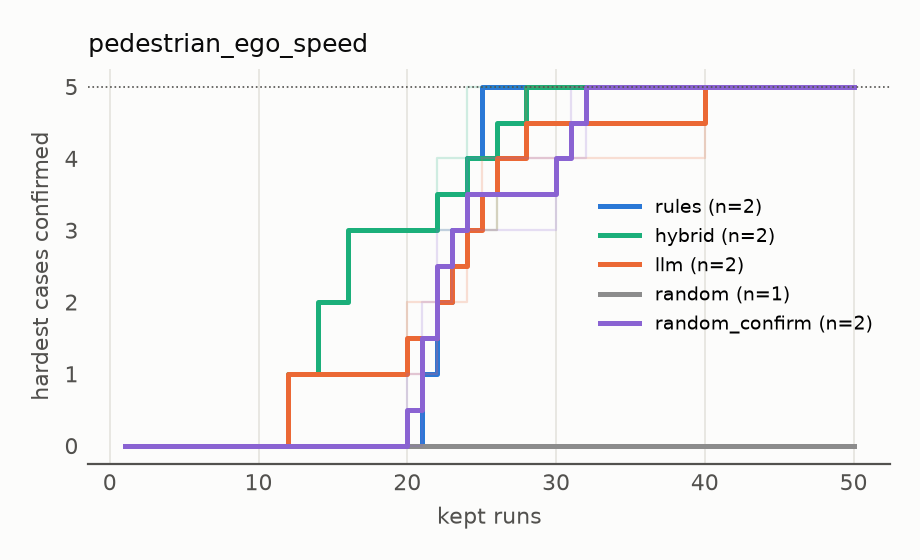
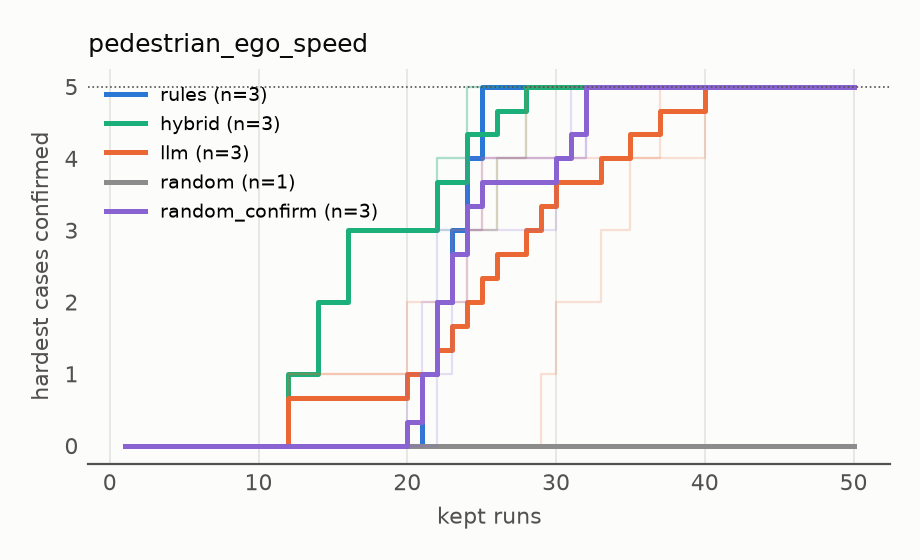
Pedestrian x ego speed: three replicates of every method

diff --git a/METHODS.md b/METHODS.md
@@ -32,10 +32,10 @@ k most challenging scenes (1 = a crash), whether or not it was confirmed.
 | pedestrian_crossing | random | 1 | 49 | 0 | 49 | 49 | 0 of 5 | 0.673 | 0 | 0.0 |
 | pedestrian_crossing | optuna | 1 | 49 | 0 | 49 | 49 | 1 of 5 | 0.699 | 3 | 0.0 |
 | pedestrian_ego_speed | rules | 3 | 30, 30, 30 | 3 | 25, 25, 25 | 25 | 5, 5, 5 of 5 | 1.0, 1.0, 1.0 | 17, 18, 18 | 0.0, 0.0, 0.0 |
-| pedestrian_ego_speed | hybrid | 2 | 30, 30 | 2 | 24, 28 | 26.0 | 5, 5 of 5 | 1.0, 1.0 | 18, 19 | 46.0, 45.6 |
-| pedestrian_ego_speed | llm | 2 | 30, 49 | 2 | 28, 40 | 34.0 | 5, 5 of 5 | 1.0, 1.0 | 18, 30 | 52.5, 88.1 |
+| pedestrian_ego_speed | hybrid | 3 | 30, 30, 30 | 3 | 24, 28, 24 | 24 | 5, 5, 5 of 5 | 1.0, 1.0, 1.0 | 18, 19, 19 | 46.0, 45.6, 42.3 |
+| pedestrian_ego_speed | llm | 3 | 30, 49, 39 | 3 | 28, 40, 37 | 37 | 5, 5, 5 of 5 | 1.0, 1.0, 1.0 | 18, 30, 25 | 52.5, 88.1, 78.2 |
 | pedestrian_ego_speed | random | 1 | 48 | 0 | 50 | 50 | 0 of 5 | 1.0 | 31 | 0.0 |
-| pedestrian_ego_speed | random_confirm | 2 | 39, 39 | 2 | 31, 32 | 31.5 | 5, 5 of 5 | 1.0, 1.0 | 28, 29 | 0.0, 0.0 |
+| pedestrian_ego_speed | random_confirm | 3 | 39, 39, 40 | 3 | 31, 32, 32 | 32 | 5, 5, 5 of 5 | 1.0, 1.0, 1.0 | 28, 29, 31 | 0.0, 0.0, 0.0 |
 
 Left out: arms that stopped believing their goal met under the broad
 failure definition used before 8 Oct 2026 (any front, side or off-road

diff --git a/BACK.md b/BACK.md
@@ -47,8 +47,9 @@ by day is in `LOG.md`. Live results: `research/simgate serve` (Results tab),
    involving the pedestrian: it turns too sharply or veers off at RIGHT
    commands. Worth checking its gains, or the uncommitted configuration.py.
 6. **Which search method is fastest depends on the space** (replicates so
-   far, `METHODS.md`): pedestrian x ego speed (2 knobs) rules 25/25, hybrid
-   24/28, llm 28/40, random + confirmation 31/32 runs to the goal; lead
+   far, `METHODS.md`): pedestrian x ego speed (2 knobs, three replicates
+   each, complete) hybrid 24/28/24, rules 25/25/25, random + confirmation
+   31/32/32, llm 28/40/37 runs to the goal; lead
    vehicle (3 knobs, failures at the extremes) llm 5 of 5 by run 23 (one
    clean replicate), random + confirmation 5 by 43 and 4 of 5, hybrid 2 and
    3 of 5, rules 0 and 0; cut-in (clean replicates only) hybrid 5 of 5 by

diff --git a/FACTS.md b/FACTS.md
@@ -545,6 +545,15 @@ under the new definition from their first round.
   failures sit at the extremes of a larger space; a rule design for that
   needs global coverage first (corners or a coarse grid) before local steps.
 
+### Pedestrian x ego speed, three replicates of every method (10 Oct)
+
+Runs to the goal (5 hardest settings, each confirmed): hybrid 24, 28, 24
+(median 24); rules 25, 25, 25; random + confirmation 31, 32, 32; llm 28, 40,
+37 (median 37); plain random never (it confirms nothing). In this small
+space (2 knobs, 10 scenes) the rule candidates, alone or chosen by Claude,
+are the fastest and most consistent; the free Claude proposer is the
+slowest and most variable.
+
 ### Replicates under replayed traffic are nearly deterministic (9 Oct)
 
 pedestrian x ego speed, rules, three replicates with different run seeds
